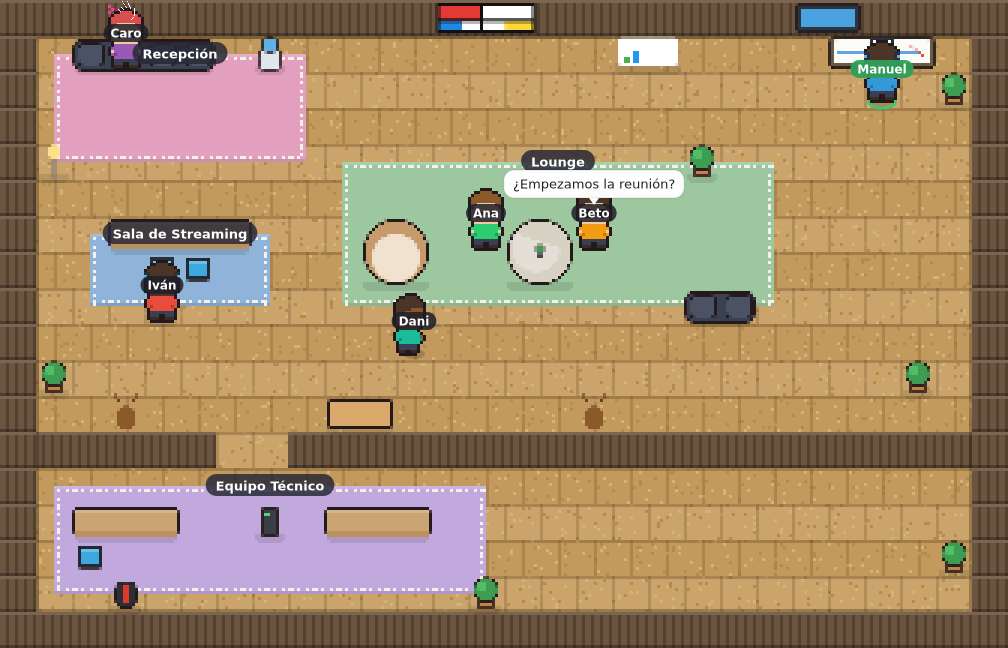
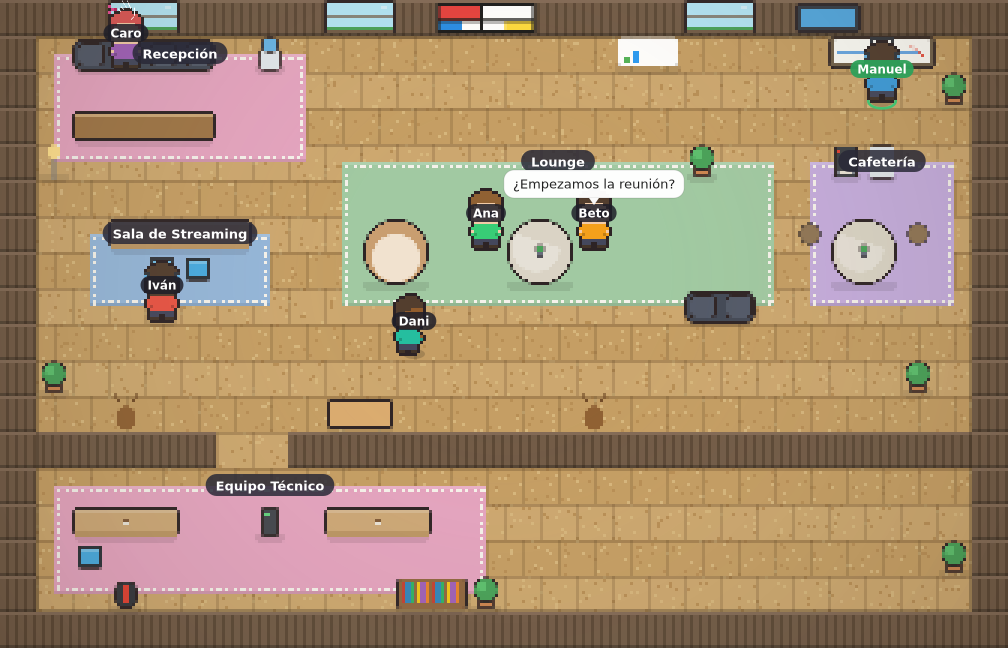
Entorno premium: cafetería, recepción, ventanales y más
- Nuevos muebles: mostrador de recepción, máquina de café, nevera,
  ventanales con vistas, estantería con libros, taza de café
- Nueva sala 'Cafetería' (mesa de bistró con taburetes y audio de grupo)
- Centro de planta en las mesas de reunión y taburetes con asiento
- Plantas decorativas repartidas e iluminación cálida (viñeta)

diff --git a/client/src/game/render.js b/client/src/game/render.js
@@ -395,6 +395,70 @@ function drawItem(ctx, kind, x, y, w, h) {
       ctx.fillStyle = "#5ad17a";
       ctx.fillRect(x + 13, y + 8, 4, 4);
       break;
+    case "counter": // mostrador de recepción
+      shadow(ctx, x, y, w, h);
+      ctx.strokeStyle = OUTLINE; ctx.lineWidth = 2;
+      ctx.fillStyle = "#9a6f3f";
+      roundRect(ctx, x + 2, y + 4, w - 4, h - 8, 4);
+      ctx.fill(); ctx.stroke();
+      ctx.fillStyle = "#caa472"; // encimera
+      ctx.fillRect(x + 3, y + 5, w - 6, 4);
+      ctx.fillStyle = "rgba(255,255,255,0.2)";
+      ctx.fillRect(x + 3, y + 5, w - 6, 1);
+      break;
+    case "coffee": // máquina de café
+      shadow(ctx, x, y, w, h);
+      ctx.strokeStyle = OUTLINE; ctx.lineWidth = 1.6;
+      ctx.fillStyle = "#33373e";
+      roundRect(ctx, x + 7, y + 3, w - 14, h - 6, 3);
+      ctx.fill(); ctx.stroke();
+      ctx.fillStyle = "#e0392b"; ctx.fillRect(x + 10, y + 6, 3, 2); // luz
+      ctx.fillStyle = "#7a818c"; ctx.fillRect(x + 9, y + h - 10, w - 18, 3); // boquilla
+      ctx.fillStyle = "#e8e2d6"; ctx.fillRect(x + 12, y + h - 8, w - 24, 3); // tacita
+      break;
+    case "fridge": // nevera
+      shadow(ctx, x, y, w, h);
+      ctx.strokeStyle = OUTLINE; ctx.lineWidth = 1.6;
+      ctx.fillStyle = "#dfe6ec";
+      roundRect(ctx, x + 6, y + 2, w - 12, h - 4, 3);
+      ctx.fill(); ctx.stroke();
+      ctx.strokeStyle = "rgba(120,130,140,0.6)"; ctx.lineWidth = 1;
+      ctx.beginPath(); ctx.moveTo(x + 8, y + 12); ctx.lineTo(x + w - 8, y + 12); ctx.stroke();
+      ctx.fillStyle = "#9aa6b0"; ctx.fillRect(x + w - 10, y + 5, 2, 5); // tirador
+      break;
+    case "window": { // ventanal con vistas (decoración de pared)
+      ctx.strokeStyle = OUTLINE; ctx.lineWidth = 2;
+      ctx.fillStyle = "#6b5440"; roundRect(ctx, x + 2, y + 1, w - 4, h - 4, 2); ctx.fill(); ctx.stroke();
+      ctx.fillStyle = "#aee3f5"; ctx.fillRect(x + 4, y + 3, w - 8, h - 9);
+      ctx.fillStyle = "#7fc8e8"; ctx.fillRect(x + 4, y + h - 9, w - 8, 3);
+      ctx.fillStyle = "#cdebf7"; ctx.fillRect(x + 7, y + 5, 6, 2); ctx.fillRect(x + w - 14, y + 6, 5, 2); // nubes
+      ctx.fillStyle = "#3f9d52"; ctx.fillRect(x + 4, y + h - 8, w - 8, 2); // colina
+      ctx.strokeStyle = "#6b5440"; ctx.lineWidth = 1.4; // cruceta
+      ctx.beginPath(); ctx.moveTo(x + w / 2, y + 3); ctx.lineTo(x + w / 2, y + h - 6);
+      ctx.moveTo(x + 4, y + (h - 6) / 2 + 2); ctx.lineTo(x + w - 4, y + (h - 6) / 2 + 2); ctx.stroke();
+      break;
+    }
+    case "bookshelf": // estantería con libros
+      shadow(ctx, x, y, w, h);
+      ctx.strokeStyle = OUTLINE; ctx.lineWidth = 2;
+      ctx.fillStyle = "#8a6038";
+      roundRect(ctx, x + 2, y + 3, w - 4, h - 6, 3);
+      ctx.fill(); ctx.stroke();
+      {
+        const books = ["#c0392b", "#2980b9", "#27ae60", "#f1c40f", "#9b59b6", "#e67e22"];
+        for (let i = 0; i < Math.floor((w - 10) / 5); i++) {
+          ctx.fillStyle = books[(x + i) % books.length];
+          ctx.fillRect(x + 5 + i * 5, y + 6, 4, h - 14);
+        }
+      }
+      break;
+    case "mug": // taza sobre la mesa
+      ctx.strokeStyle = OUTLINE; ctx.lineWidth = 1;
+      ctx.fillStyle = "#e8e2d6";
+      ctx.fillRect(x + w / 2 - 3, y + h / 2 - 3, 6, 6);
+      ctx.strokeRect(x + w / 2 - 3, y + h / 2 - 3, 6, 6);
+      ctx.fillStyle = "#7a5230"; ctx.fillRect(x + w / 2 - 2, y + h / 2 - 2, 4, 2);
+      break;
     default:
       ctx.fillStyle = "#bbb";
       roundRect(ctx, x + 4, y + 4, w - 8, h - 8, 4);

diff --git a/client/src/game/mapData.js b/client/src/game/mapData.js
@@ -41,6 +41,21 @@ export const FURNITURE = [
   { x: 9, y: 11, w: 2, h: 1, kind: "cabinet", solid: true },
   { x: 16, y: 11, w: 1, h: 1, kind: "deer", solid: false },
 
+  // ── Recepción premium ──
+  { x: 2, y: 3, w: 4, h: 1, kind: "counter", solid: true },
+
+  // ── Ventanales con vistas (pared superior, decorativos) ──
+  { x: 3, y: 0, w: 2, h: 1, kind: "window", solid: false },
+  { x: 9, y: 0, w: 2, h: 1, kind: "window", solid: false },
+  { x: 19, y: 0, w: 2, h: 1, kind: "window", solid: false },
+
+  // ── Cafetería (zona derecha) ──
+  { x: 23, y: 4, w: 1, h: 1, kind: "coffee", solid: true },
+  { x: 24, y: 4, w: 1, h: 1, kind: "fridge", solid: true },
+  { x: 23, y: 6, w: 2, h: 2, kind: "roundtable", solid: true },
+  { x: 22, y: 6, w: 1, h: 1, kind: "stool", solid: true },
+  { x: 25, y: 6, w: 1, h: 1, kind: "stool", solid: true },
+
   // ── Plantas decorativas (toque premium) ──
   { x: 1, y: 10, w: 1, h: 1, kind: "plant", solid: true },
   { x: 26, y: 2, w: 1, h: 1, kind: "plant", solid: true },
@@ -51,8 +66,11 @@ export const FURNITURE = [
   { x: 2, y: 14, w: 3, h: 1, kind: "desk", solid: true },
   { x: 2, y: 15, w: 1, h: 1, kind: "monitors", solid: true },
   { x: 3, y: 16, w: 1, h: 1, kind: "gamerchair", solid: true },
+  { x: 3, y: 14, w: 1, h: 1, kind: "mug", solid: false },
   { x: 7, y: 14, w: 1, h: 1, kind: "tower", solid: true },
   { x: 9, y: 14, w: 3, h: 1, kind: "desk", solid: true },
+  { x: 10, y: 14, w: 1, h: 1, kind: "mug", solid: false },
+  { x: 11, y: 16, w: 2, h: 1, kind: "bookshelf", solid: true },
   { x: 13, y: 16, w: 1, h: 1, kind: "plant", solid: true },
 ];
 
@@ -63,6 +81,7 @@ export const ZONES = [
   { x: 1, y: 1, w: 8, h: 4, name: "Recepción" },
   { x: 2, y: 6, w: 6, h: 3, name: "Sala de Streaming" },
   { x: 9, y: 4, w: 13, h: 5, name: "Lounge" },
+  { x: 22, y: 4, w: 5, h: 5, name: "Cafetería" },
   { x: 1, y: 13, w: 13, h: 4, name: "Equipo Técnico" },
 ];
 
@@ -88,6 +107,8 @@ export const SEATS = [
   { x: 5, y: 1, dir: "down" },
   { x: 19, y: 8, dir: "up" },   // sofá lounge
   { x: 20, y: 8, dir: "up" },
+  { x: 22, y: 6, dir: "right" },// taburetes de la cafetería
+  { x: 25, y: 6, dir: "left" },
 ];
 
 // Pizarra colaborativa: zona de la pared superior. Te acercas a una

diff --git a/client/src/game/OfficeCanvas.jsx b/client/src/game/OfficeCanvas.jsx
@@ -300,6 +300,16 @@ export default function OfficeCanvas({ me, onPrompt, onOpenBoard }) {
       // ── Personajes: sprites pixel-art nítidos sobre el fondo ──
       for (const p of ordered) drawCharacterSprite(ctx, p, cam, PIXEL);
 
+      // ── Iluminación cálida (viñeta sutil) ──
+      const lg = ctx.createRadialGradient(
+        viewW / 2, viewH * 0.42, Math.min(viewW, viewH) * 0.25,
+        viewW / 2, viewH / 2, Math.max(viewW, viewH) * 0.72,
+      );
+      lg.addColorStop(0, "rgba(255,238,205,0.05)");
+      lg.addColorStop(1, "rgba(35,25,15,0.22)");
+      ctx.fillStyle = lg;
+      ctx.fillRect(0, 0, viewW, viewH);
+
       // ── Capa de texto nítida por encima ──
       ctx.imageSmoothingEnabled = true;
       drawZoneLabels(ctx, cam);
